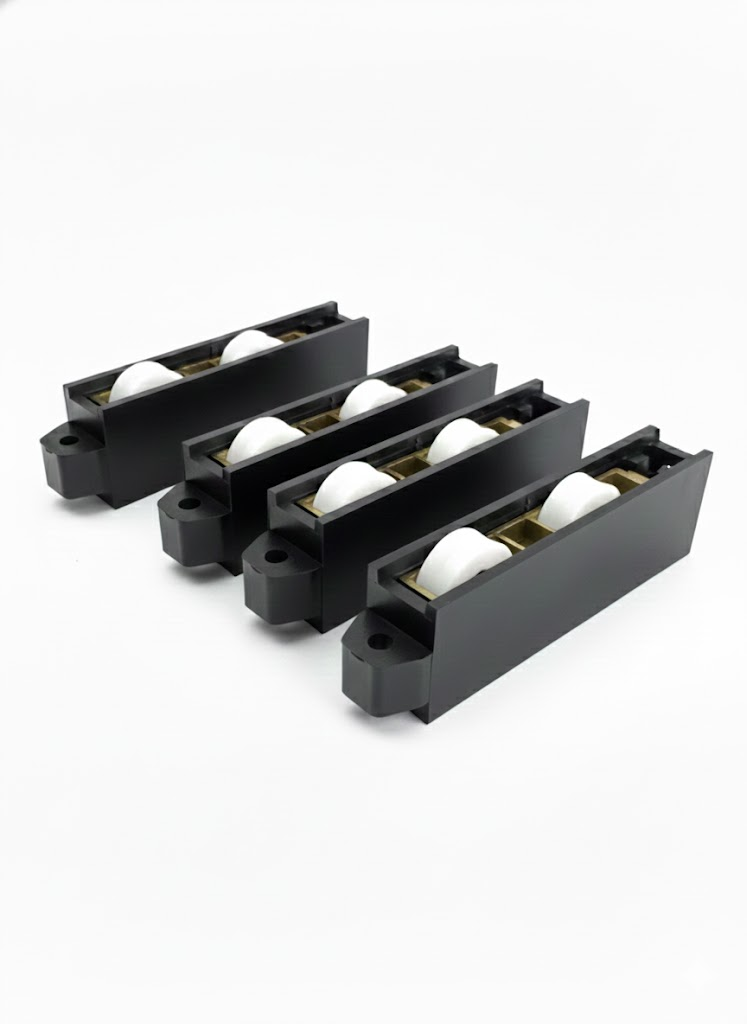
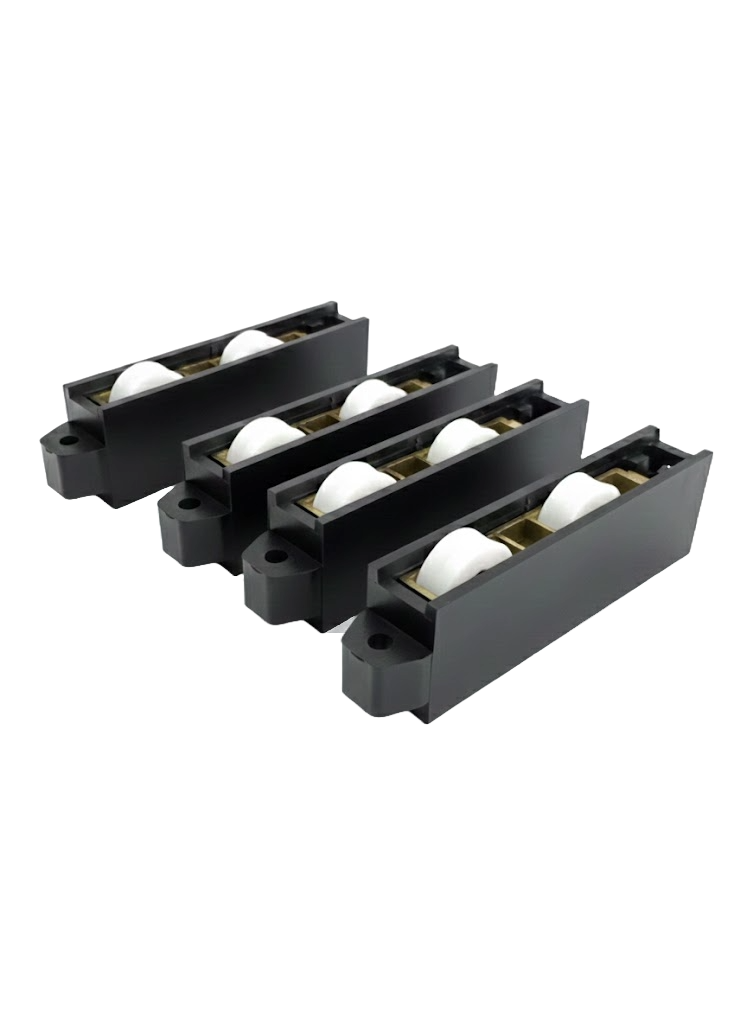
רשת הזזה - רשת קלה

Changed region(s): [[0.2155, 0.5312, 0.4618, 0.6875], [0.0616, 0.4688, 0.2463, 0.5312], [0.4618, 0.6875, 0.585, 0.7188]]

diff --git a/index.html b/index.html
@@ -887,7 +887,7 @@
               <div class="handle-item">
                 <img src="גלגלים/pwr.png" alt="גלגל פלסטיק לחלון הזזה" />
                 <div>
-                  <strong>גלגל פלסטיק לרשת הזזה</strong>
+                  <strong>גלגל פלסטיק לרשת קלה</strong>
                 </div>
               </div>
             </div>
